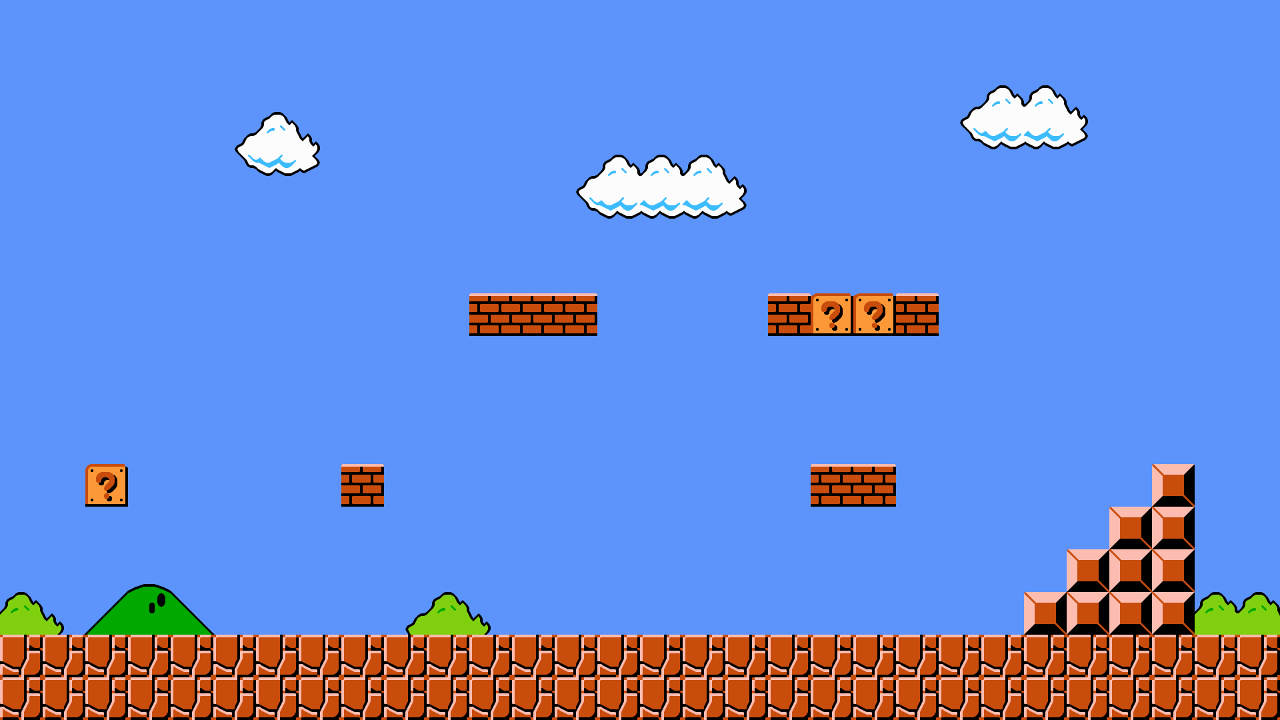
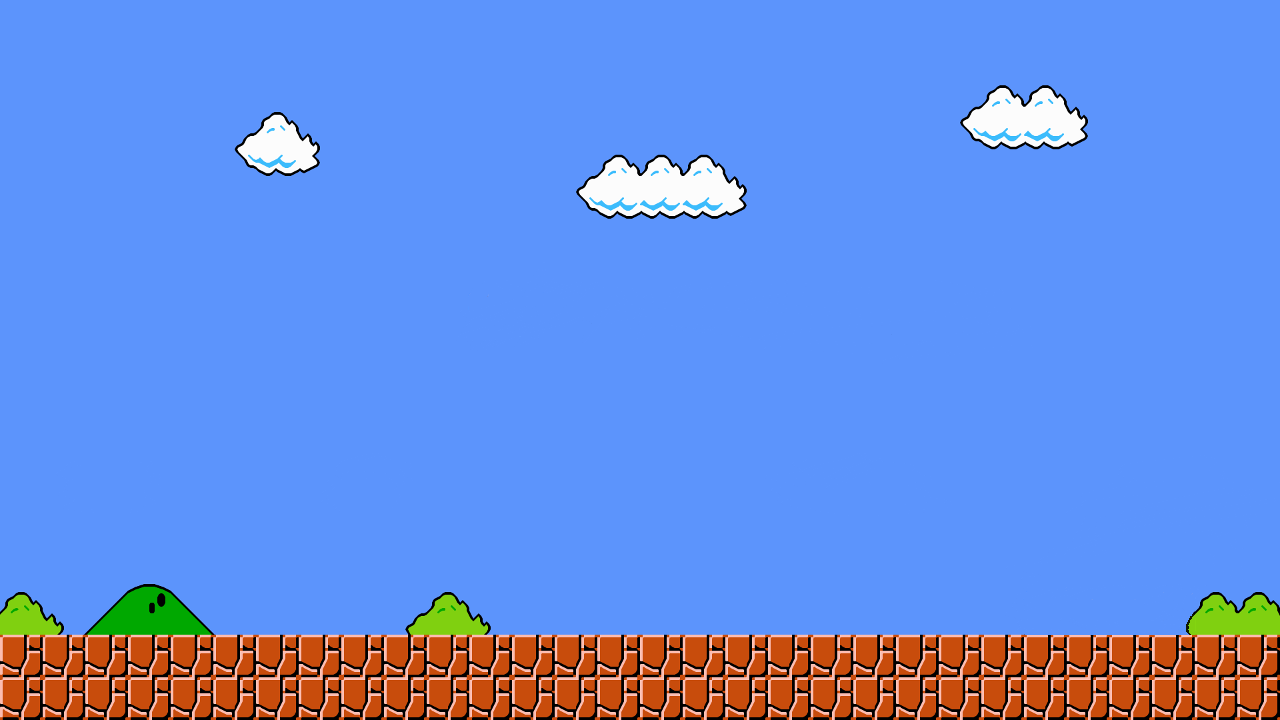
Added files via upload

diff --git a/Final/player_sprite.cpp b/Final/player_sprite.cpp
@@ -45,8 +45,7 @@ namespace csis3700 {
 
   void player_sprite::advance_by_time(double dt) {
     phys_sprite::advance_by_time(dt);
-
-    if(keyboard_manager::get() -> is_key_down(ALLEGRO_KEY_RIGHT) && keyboard_manager::get() -> is_key_down(ALLEGRO_KEY_UP) && position.get_y() >= 505){
+    if(keyboard_manager::get() -> is_key_down(ALLEGRO_KEY_RIGHT) && keyboard_manager::get() -> is_key_down(ALLEGRO_KEY_UP) && on_ground == true){
         set_velocity(vec2d(150, -325));
         set_acceleration(vec2d(0, 500));
         jump_right = new image_sequence;
@@ -62,8 +61,8 @@ namespace csis3700 {
         else{
             al_play_sample(sample, 1.0, 0.0,1.0,ALLEGRO_PLAYMODE_ONCE,NULL);
         }
-
-    } else if(keyboard_manager::get() -> is_key_down(ALLEGRO_KEY_LEFT) && keyboard_manager::get() -> is_key_down(ALLEGRO_KEY_UP) && position.get_y() >= 505){
+        set_on_ground(false);
+    } else if(keyboard_manager::get() -> is_key_down(ALLEGRO_KEY_LEFT) && keyboard_manager::get() -> is_key_down(ALLEGRO_KEY_UP) && on_ground == true){
         set_velocity(vec2d(-150, -325));
         set_acceleration(vec2d(0, 500));
         jump_left = new image_sequence;
@@ -80,8 +79,8 @@ namespace csis3700 {
         else{
             al_play_sample(sample, 1.0, 0.0,1.0,ALLEGRO_PLAYMODE_ONCE,NULL);
         }
-
-    } else if(keyboard_manager::get() -> is_key_down(ALLEGRO_KEY_UP) && position.get_y() >= 505){
+        set_on_ground(false);
+    } else if(keyboard_manager::get() -> is_key_down(ALLEGRO_KEY_UP) && on_ground == true){
         set_velocity(vec2d(0, -325));
         set_acceleration(vec2d(0, 500));
         jump = new image_sequence;
@@ -97,15 +96,16 @@ namespace csis3700 {
         else{
             al_play_sample(sample, 1.0, 0.0,1.0,ALLEGRO_PLAYMODE_ONCE,NULL);
         }
-    } else if (keyboard_manager::get() -> is_key_down(ALLEGRO_KEY_RIGHT) && position.get_y() >= 505){
+        set_on_ground(false);
+    } else if (keyboard_manager::get() -> is_key_down(ALLEGRO_KEY_RIGHT) && on_ground == true){
         set_image_sequence(walk_right);
         set_velocity(vec2d(150, 0));
 
-    } else if (keyboard_manager::get() -> is_key_down(ALLEGRO_KEY_LEFT) && position.get_y() >= 505){
+    } else if (keyboard_manager::get() -> is_key_down(ALLEGRO_KEY_LEFT) && on_ground == true){
         set_image_sequence(walk_left);
         set_velocity(vec2d(-150, 0));
 
-    } else if(position.get_y() >= 505){
+    } else if(position.get_y() >= 505 || on_ground == true){
         set_on_ground(true);
         set_velocity(vec2d(0,0));
         set_acceleration(vec2d(0,0));
@@ -114,8 +114,21 @@ namespace csis3700 {
   }
 
   void player_sprite::resolve(const collision& collision, sprite *other) {
-  //if (other->bounding_box().  get_position()){cout<<"collision!" << endl;}
-
+  if ((other->bounding_box().upper_left_corner().get_x() <= (get_position().get_x() + get_width())) && (other->bounding_box().upper_left_corner().get_y() +10 <= (get_position().get_y() + get_height())) && ((other->bounding_box().upper_left_corner().get_x() + other -> get_width()) >= (get_position().get_x() + get_width()))){
+        cout<<"collision! left" << endl;
+        set_velocity(vec2d(-75,0));
   }
-
+  else if (((other->bounding_box().upper_left_corner().get_x()+other -> get_width()) >= get_position().get_x()) && (other->bounding_box().upper_left_corner().get_y()+10 <= (get_position().get_y() + get_height())) && (other->bounding_box().upper_left_corner().get_x() <= get_position().get_x() + get_width())){
+        cout<<"collision! right" << endl;
+        set_velocity(vec2d(75,0));
+  }
+  else if (other->bounding_box().upper_left_corner().get_y() <= (get_position().get_y() + get_height()) && other->bounding_box().upper_left_corner().get_x() <= (get_position().get_x() + get_width()) && (other->bounding_box().upper_left_corner().get_x() + other-> get_width()) >= get_position().get_x()){
+        cout<<"collision! up" << endl;
+        set_on_ground(true);
+  }
+  else if(other->bounding_box().upper_left_corner().get_x() > (get_position().get_x() + get_width()) && (other->bounding_box().upper_left_corner().get_x() + other->get_width()) < get_position().get_x() || position.get_y() < 505){
+        set_on_ground(false);
+        set_acceleration(vec2d(0, 500));
+  }
+}
 }

diff --git a/Final/world.cpp b/Final/world.cpp
@@ -10,7 +10,7 @@
 #include "player_sprite.h"
 #include "obstruction_sprite.h"
 #include "collision.h"
-
+#include "enemy_sprite.h"
 #include "allegro5/allegro_audio.h"
 #include "allegro5/allegro_acodec.h"
 
@@ -31,6 +31,18 @@ namespace csis3700 {
       assert(font != NULL);
       player = new player_sprite(0, 505);
       sprites.push_back(player);
+      goomba = new enemy_sprite(0, 525);
+      sprites.push_back(goomba);
+      //tunnel = new obstruction_sprite(100, 465, image_library::get() -> get("tube.png"));
+      //sprites.push_back(tunnel);
+      tunnel = new obstruction_sprite(50, 465, image_library::get() -> get("tube.png"));
+      sprites.push_back(tunnel);
+      castle = new obstruction_sprite(1000, 462, image_library::get() -> get("castle.png"));
+      sprites.push_back(castle);
+      brick = new obstruction_sprite(1000, 525, image_library::get() -> get("brick.png"));
+      sprites.push_back(brick);
+      coin = new obstruction_sprite(1000, 505,image_library::get() -> get("coin.png"));
+      sprites.push_back(coin);
       if (camera_x < 0)
         camera_x = 0;
       if (camera_y < 0)
@@ -96,8 +108,12 @@ namespace csis3700 {
   }
 
   void world::resolve_collisions() {
-
-
+    //if(player -> get_position().get_x() == tunnel -> get_position().get_x()){
+    for (int i = 2; i < 5; i++){
+        collision player_obstacle(sprites[0], sprites[i]);
+        player -> resolve(player_obstacle, sprites[i]);
+    }
+    //}
   }
 
   void world::advance_by_time(double dt) {
@@ -109,14 +125,6 @@ namespace csis3700 {
 
   void world::draw() {
     ALLEGRO_BITMAP *bg_image = NULL;
-
-    ALLEGRO_BITMAP *tunnel = image_library::get() -> get("tube.png");
-
-    ALLEGRO_BITMAP *coin = image_library::get() -> get("coin.png");
-
-    ALLEGRO_BITMAP *castle = image_library::get() -> get("castle.png");
-
-    ALLEGRO_BITMAP *brick = image_library::get() -> get("brick.png");
 
     ALLEGRO_TRANSFORM T;
     al_identity_transform(&T);
@@ -131,25 +139,25 @@ namespace csis3700 {
     for(vector<sprite*>::iterator it = sprites.begin(); it != sprites.end(); ++it)
       (*it)->draw();
 
-    obstruction_sprite tunnel1(300,505, tunnel);
+    /*obstruction_sprite tunnel1(300,505, tunnel);
     obstruction_sprite coin1(50,505, coin);
     obstruction_sprite castle1(100,462, castle);
     obstruction_sprite brick1(200,400, brick);
-    obstruction_sprite brick2(249,400, brick);
+    obstruction_sprite brick2(249,400, brick);*/
 
 
     al_identity_transform(&T);
     al_use_transform(&T);
     al_draw_textf(font, al_map_rgb(255, 255, 255), 100, 0, 0, "SCORE: %d", score);
     al_draw_textf(font, al_map_rgb(255, 255, 255), 1000, 0, 0, "LIVES x %d", lives);
-    al_draw_textf(font, al_map_rgb(255, 255, 255), 500, 0, 0, "TIME: %d", time);
-    time -= .000000000001;
+    al_draw_textf(font, al_map_rgb(255, 255, 255), 500, 0, 0, "TIME: %d", time/10);
+    time -= .0000000000001;
 
-            if (time<=500 && time > 1){ //start faster music due to low on time
+            if (time<=3000 && time > 10){ //start faster music due to low on time
                 al_set_sample_instance_playing(themeInstance, false);
                 al_set_sample_instance_playing(themeFastInstance, true);
             }
-            if (time==1){ //lost by time running out - play once
+            if (time==10){ //lost by time running out - play once
                 al_set_sample_instance_playing(themeInstance, false);
                 al_set_sample_instance_playing(themeFastInstance, false);
                 al_set_sample_instance_playing(deadInstance, true);

diff --git a/Final/obstruction_sprite.cpp b/Final/obstruction_sprite.cpp
@@ -3,8 +3,28 @@
 #include "image_sequence.h"
 
 namespace csis3700 {
-   obstruction_sprite::obstruction_sprite(float initial_x, float initial_y, ALLEGRO_BITMAP *image, ALLEGRO_BITMAP *im2) : sprite(initial_x, initial_y) {
+   obstruction_sprite::obstruction_sprite(float initial_x, float initial_y, ALLEGRO_BITMAP *image) : sprite(initial_x, initial_y) {
     al_draw_bitmap(image, initial_x, initial_y, 0);
+    if (image == image_library::get() -> get("tube.png")){
+        tunnel = new image_sequence;
+        set_image_sequence(tunnel);
+        tunnel -> add_image(image_library::get() -> get("tube.png"), 0.2);
+    }
+    else if (image == image_library::get() -> get("coin.png")){
+        coin = new image_sequence;
+        set_image_sequence(coin);
+        coin -> add_image(image_library::get() -> get("coin.png"), 0.2);
+    }
+    else if (image == image_library::get() -> get("castle.png")){
+        castle = new image_sequence;
+        set_image_sequence(castle);
+        castle -> add_image(image_library::get() -> get("castle.png"), 0.2);
+    }
+    else if (image == image_library::get() -> get("brick.png")){
+        brick = new image_sequence;
+        set_image_sequence(brick);
+        brick -> add_image(image_library::get() -> get("brick.png"), 0.2);
+    }
   }
 
   vec2d obstruction_sprite::get_velocity() const {

diff --git a/Final/enemy_sprite.cpp b/Final/enemy_sprite.cpp
@@ -1,0 +1,38 @@
+#include "enemy_sprite.h"
+#include "image_library.h"
+#include "image_sequence.h"
+#include "vec2d.h"
+#include "collision.h"
+#include <cmath>
+using namespace std;
+
+namespace csis3700 {
+
+  enemy_sprite::enemy_sprite(float initial_x, float initial_y) :
+    phys_sprite(initial_x, initial_y) {
+        time = 0;
+        walk = new image_sequence;
+        set_image_sequence(walk);
+        walk -> add_image(image_library::get() -> get("goomba_right.png"), 0.1);
+        walk -> add_image(image_library::get() -> get("goomba_left.png"), 0.1);
+  }
+
+  bool enemy_sprite::is_passive() const {
+    return false;
+  }
+
+  void enemy_sprite::set_on_ground(bool v) {
+    on_ground = v;
+  }
+
+  void enemy_sprite::advance_by_time(double dt) {
+    phys_sprite::advance_by_time(dt);
+    set_velocity(vec2d(50, 0));
+
+  }
+
+  void enemy_sprite::resolve(const collision& collision, sprite *other) {
+  }
+
+}
+

diff --git a/Final/world.h b/Final/world.h
@@ -5,6 +5,8 @@
 #include "allegro5/allegro_font.h"
 #include "sprite.h"
 #include "player_sprite.h"
+#include "enemy_sprite.h"
+#include "obstruction_sprite.h"
 #include <vector>
 
 #include "allegro5/allegro_audio.h"
@@ -62,12 +64,17 @@ namespace csis3700 {
   private:
     void resolve_collisions();
     player_sprite *player;
+    enemy_sprite *goomba;
+    obstruction_sprite *tunnel;
+    obstruction_sprite *coin;
+    obstruction_sprite *castle;
+    obstruction_sprite *brick;
     std::vector<sprite*> sprites;
     float camera_x = 0;
     float camera_y = 0;
     int score = 0;
     int lives = 3;
-    int time = 1000;
+    int time = 10000;
     ALLEGRO_FONT* font;
     ALLEGRO_SAMPLE_ID id;
     ALLEGRO_SAMPLE *theme;

diff --git a/Final/rectangle.h b/Final/rectangle.h
@@ -13,7 +13,7 @@ namespace csis3700 {
 
     /**
      * Construct a rectangle. Note if width or height is negative then
-     * this rectangle is considered degenerate (empty).  
+     * this rectangle is considered degenerate (empty).
      */
     rectangle(float x, float y, float width, float height);
 
@@ -56,7 +56,7 @@ namespace csis3700 {
     rectangle intersection(const rectangle& other) const;
 
     /**
-     * Returns true iff this rectangle contains the point specified by
+     * Returns true if this rectangle contains the point specified by
      * the supplied vector (relative to the origin).
      */
     bool contains(vec2d point) const;

diff --git a/Final/obstruction_sprite.h b/Final/obstruction_sprite.h
@@ -12,12 +12,15 @@ namespace csis3700 {
    */
   class obstruction_sprite : public sprite {
   public:
-         obstruction_sprite(float initial_x, float initial_y, ALLEGRO_BITMAP *image=NULL, ALLEGRO_BITMAP *im2=NULL);
+         obstruction_sprite(float initial_x, float initial_y, ALLEGRO_BITMAP *image=NULL);
         virtual void set_velocity(const vec2d& v);
         virtual vec2d get_velocity() const;
         virtual void resolve(const collision& collision, sprite* other);
     private:
         image_sequence *tunnel;
+        image_sequence *coin;
+        image_sequence *castle;
+        image_sequence *brick;
   };
 
 /*

diff --git a/Final/enemy_sprite.h b/Final/enemy_sprite.h
@@ -1,0 +1,20 @@
+#ifndef __CDS_ENEMY_SPRITE_H
+#define __CDS_ENEMY_SPRITE_H
+#include "phys_sprite.h"
+
+namespace csis3700 {
+  class enemy_sprite : public phys_sprite {
+  public:
+    enemy_sprite(float initial_x=0, float initial_y=0);
+    virtual bool is_passive() const;
+    virtual void set_on_ground(bool v);
+    virtual void advance_by_time(double dt);
+    virtual void resolve(const collision& collision, sprite* other);
+  private:
+    bool on_ground;
+    image_sequence *walk;
+  };
+}
+
+
+#endif /* ENEMY_SPRITE_H */

diff --git a/Final/phys_sprite.cpp b/Final/phys_sprite.cpp
@@ -14,7 +14,7 @@ namespace csis3700 {
     sprite::advance_by_time(dt);
     position = position + dt * velocity;
     velocity = velocity + dt * acceleration;
-    std::cout << velocity << std::endl;
+    //std::cout << velocity << std::endl;
   }
 
   void phys_sprite::set_velocity(const vec2d& v) {

diff --git a/Final/sprite.h b/Final/sprite.h
@@ -77,7 +77,7 @@ namespace csis3700 {
     virtual void resolve(const collision& collision, sprite* other) = 0;
 
   protected:
-    
+
     /**
      * My position
      */

diff --git a/Final/player_sprite.h b/Final/player_sprite.h
@@ -18,7 +18,6 @@ namespace csis3700 {
     image_sequence *jump_left;
     image_sequence *jump_right;
     image_sequence *jump;
-
   };
 }
 
